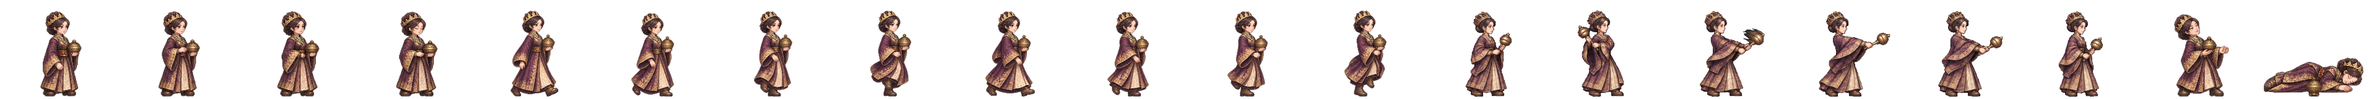
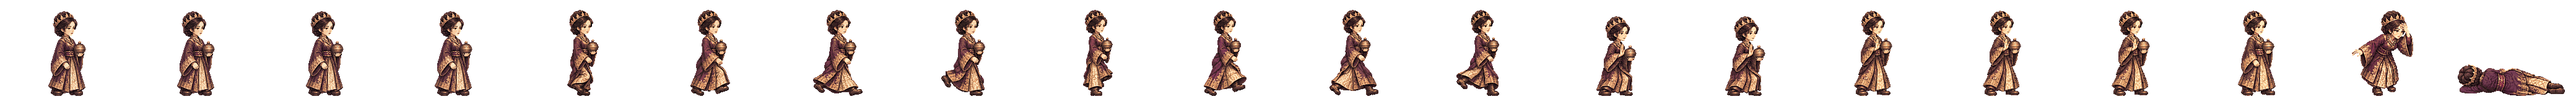
백제 왕비 새 띠: 청동 향로를 받쳐 들고 손바닥으로 기운을 미는 걷기·시전·개성·맞음·쓰러짐 (띠 검사 합격 · 옛 2배 띠 연결 뺌)
Claude-Session: https://claude.ai/code/session_01TRiuN7s6aDfSnaHxrkctmU

diff --git a/src/realm/data/spritePx.ts b/src/realm/data/spritePx.ts
@@ -1,3 +1,3 @@
 /** public/realm/anim-px/manifest.json 의 사본 — tools/sprite-normalize.mjs 가 만든다 (손으로 고치지 말 것). 칸 [가로, 세로] · feet = 발 줄(칸 위에서 y) · bodyPx = 서 있는 몸 키 */
 import { expandManifest } from './sprite-manifest.ts'
-export const SPRITE_PX: Readonly<Record<string, { readonly cell: readonly [number, number]; readonly feet: number; readonly bodyPx: number; readonly kind: 'general' | 'soldier' | 'folk' | 'crowd'; readonly cells: number }>> = expandManifest<{ readonly cell: readonly [number, number]; readonly feet: number; readonly bodyPx: number; readonly kind: 'general' | 'soldier' | 'folk' | 'crowd'; readonly cells: number }>([{"cell":[166,128],"feet":126,"bodyPx":124,"kind":"soldier","cells":20},{"cell":[116,128],"feet":126,"bodyPx":117,"kind":"soldier","cells":20},{"cell":[127,128],"feet":126,"bodyPx":116,"kind":"soldier","cells":20},{"cell":[269,128],"feet":126,"bodyPx":126,"kind":"soldier","cells":20},{"cell":[503,128],"feet":126,"bodyPx":127,"kind":"soldier","cells":20},{"cell":[614,128],"feet":126,"bodyPx":126,"kind":"soldier","cells":20},{"cell":[200,160],"feet":156,"bodyPx":138,"kind":"general","cells":20},{"cell":[208,160],"feet":155,"bodyPx":138,"kind":"general","cells":20},{"cell":[208,160],"feet":154,"bodyPx":138,"kind":"general","cells":20},{"cell":[304,160],"feet":155,"bodyPx":135,"kind":"general","cells":20},{"cell":[184,160],"feet":156,"bodyPx":138,"kind":"general","cells":20},{"cell":[208,160],"feet":154,"bodyPx":136,"kind":"general","cells":20},{"cell":[232,160],"feet":156,"bodyPx":138,"kind":"general","cells":20},{"cell":[208,160],"feet":156,"bodyPx":138,"kind":"general","cells":20},{"cell":[168,160],"feet":156,"bodyPx":124,"kind":"general","cells":20},{"cell":[216,160],"feet":156,"bodyPx":130,"kind":"general","cells":20},{"cell":[200,160],"feet":156,"bodyPx":116,"kind":"general","cells":20},{"cell":[192,160],"feet":156,"bodyPx":138,"kind":"general","cells":20},{"cell":[208,160],"feet":154,"bodyPx":135,"kind":"general","cells":20},{"cell":[280,160],"feet":156,"bodyPx":138,"kind":"general","cells":20},{"cell":[232,160],"feet":156,"bodyPx":134,"kind":"general","cells":20},{"cell":[144,160],"feet":156,"bodyPx":70,"kind":"general","cells":20},{"cell":[208,160],"feet":156,"bodyPx":70,"kind":"general","cells":20},{"cell":[192,160],"feet":156,"bodyPx":70,"kind":"general","cells":20},{"cell":[240,160],"feet":155,"bodyPx":138,"kind":"general","cells":20},{"cell":[192,160],"feet":156,"bodyPx":128,"kind":"general","cells":20},{"cell":[224,160],"feet":155,"bodyPx":138,"kind":"general","cells":20},{"cell":[208,160],"feet":154,"bodyPx":137,"kind":"general","cells":20},{"cell":[216,160],"feet":156,"bodyPx":138,"kind":"general","cells":20},{"cell":[208,160],"feet":156,"bodyPx":134,"kind":"general","cells":20},{"cell":[208,160],"feet":154,"bodyPx":130,"kind":"general","cells":20},{"cell":[248,160],"feet":156,"bodyPx":138,"kind":"general","cells":20},{"cell":[248,160],"feet":155,"bodyPx":138,"kind":"general","cells":20},{"cell":[192,160],"feet":155,"bodyPx":138,"kind":"general","cells":20},{"cell":[192,160],"feet":156,"bodyPx":124,"kind":"general","cells":20},{"cell":[208,160],"feet":154,"bodyPx":131,"kind":"general","cells":20},{"cell":[256,160],"feet":156,"bodyPx":138,"kind":"general","cells":20},{"cell":[240,160],"feet":156,"bodyPx":138,"kind":"general","cells":20},{"cell":[232,160],"feet":156,"bodyPx":139,"kind":"general","cells":20},{"cell":[232,160],"feet":156,"bodyPx":73,"kind":"general","cells":20},{"cell":[264,160],"feet":156,"bodyPx":138,"kind":"general","cells":20},{"cell":[224,160],"feet":156,"bodyPx":138,"kind":"general","cells":20},{"cell":[224,160],"feet":156,"bodyPx":128,"kind":"general","cells":20},{"cell":[176,160],"feet":156,"bodyPx":129,"kind":"general","cells":20},{"cell":[208,160],"feet":154,"bodyPx":139,"kind":"general","cells":20},{"cell":[232,160],"feet":155,"bodyPx":138,"kind":"general","cells":20},{"cell":[208,160],"feet":156,"bodyPx":132,"kind":"general","cells":20},{"cell":[184,160],"feet":156,"bodyPx":122,"kind":"general","cells":20},{"cell":[280,160],"feet":155,"bodyPx":133,"kind":"general","cells":20},{"cell":[176,160],"feet":156,"bodyPx":70,"kind":"general","cells":20},{"cell":[186,128],"feet":126,"bodyPx":127,"kind":"soldier","cells":20},{"cell":[298,128],"feet":126,"bodyPx":126,"kind":"soldier","cells":20},{"cell":[82,128],"feet":126,"bodyPx":114,"kind":"folk","cells":8},{"cell":[134,128],"feet":126,"bodyPx":119,"kind":"soldier","cells":20},{"cell":[380,128],"feet":126,"bodyPx":124,"kind":"soldier","cells":20},{"cell":[114,128],"feet":126,"bodyPx":115,"kind":"soldier","cells":20},{"cell":[122,128],"feet":126,"bodyPx":114,"kind":"soldier","cells":20},{"cell":[254,128],"feet":126,"bodyPx":128,"kind":"soldier","cells":20},{"cell":[438,128],"feet":126,"bodyPx":126,"kind":"soldier","cells":20},{"cell":[88,128],"feet":126,"bodyPx":113,"kind":"folk","cells":8},{"cell":[100,128],"feet":126,"bodyPx":115,"kind":"folk","cells":8},{"cell":[108,128],"feet":126,"bodyPx":115,"kind":"folk","cells":8},{"cell":[63,128],"feet":126,"bodyPx":113,"kind":"folk","cells":8},{"cell":[69,96],"feet":96,"bodyPx":96,"kind":"crowd","cells":1},{"cell":[54,96],"feet":96,"bodyPx":96,"kind":"crowd","cells":1},{"cell":[47,96],"feet":96,"bodyPx":96,"kind":"crowd","cells":1},{"cell":[49,96],"feet":96,"bodyPx":96,"kind":"crowd","cells":1},{"cell":[57,96],"feet":96,"bodyPx":96,"kind":"crowd","cells":1},{"cell":[55,96],"feet":96,"bodyPx":96,"kind":"crowd","cells":1},{"cell":[45,96],"feet":96,"bodyPx":96,"kind":"crowd","cells":1},{"cell":[53,96],"feet":96,"bodyPx":96,"kind":"crowd","cells":1},{"cell":[64,96],"feet":96,"bodyPx":96,"kind":"crowd","cells":1},{"cell":[184,160],"feet":156,"bodyPx":124,"kind":"general","cells":20},{"cell":[208,160],"feet":154,"bodyPx":134,"kind":"general","cells":20},{"cell":[224,160],"feet":156,"bodyPx":133,"kind":"general","cells":20},{"cell":[192,160],"feet":156,"bodyPx":135,"kind":"general","cells":20},{"cell":[184,160],"feet":156,"bodyPx":137,"kind":"general","cells":20},{"cell":[176,160],"feet":156,"bodyPx":130,"kind":"general","cells":20},{"cell":[216,160],"feet":156,"bodyPx":134,"kind":"general","cells":20},{"cell":[216,160],"feet":156,"bodyPx":132,"kind":"general","cells":20},{"cell":[288,160],"feet":156,"bodyPx":138,"kind":"general","cells":20},{"cell":[192,160],"feet":156,"bodyPx":118,"kind":"general","cells":20},{"cell":[208,160],"feet":154,"bodyPx":132,"kind":"general","cells":20},{"cell":[208,160],"feet":154,"bodyPx":128,"kind":"general","cells":20},{"cell":[240,160],"feet":156,"bodyPx":128,"kind":"general","cells":20},{"cell":[184,160],"feet":156,"bodyPx":132,"kind":"general","cells":20},{"cell":[208,160],"feet":156,"bodyPx":123,"kind":"general","cells":20},{"cell":[176,160],"feet":156,"bodyPx":116,"kind":"general","cells":20},{"cell":[272,160],"feet":156,"bodyPx":138,"kind":"general","cells":20},{"cell":[176,160],"feet":156,"bodyPx":138,"kind":"general","cells":20},{"cell":[176,160],"feet":156,"bodyPx":122,"kind":"general","cells":20},{"cell":[232,160],"feet":156,"bodyPx":127,"kind":"general","cells":20},{"cell":[184,160],"feet":156,"bodyPx":134,"kind":"general","cells":20},{"cell":[168,160],"feet":156,"bodyPx":138,"kind":"general","cells":20},{"cell":[176,160],"feet":156,"bodyPx":137,"kind":"general","cells":20},{"cell":[184,160],"feet":156,"bodyPx":133,"kind":"general","cells":20}],[["axe",0],["bandit-chief",1],["bandit-club",2],["boat",3],["bow",4],["crossbow",5],["gen-adogan",6],["gen-alpyeong",7],["gen-ara",8],["gen-areum",8],["gen-aryeong",9],["gen-bakdal",8],["gen-baram",8],["gen-bdanbi",10],["gen-beom",11],["gen-beombal",8],["gen-beomi",8],["gen-bira",12],["gen-biryu",13],["gen-budeul",8],["gen-byeol",8],["gen-daemusin",14],["gen-daeso",15],["gen-dallae2",10],["gen-dalli",8],["gen-damul",16],["gen-danbi",8],["gen-dangung",17],["gen-darae",18],["gen-dokmudeom",8],["gen-duman",19],["gen-eomni",8],["gen-eureum",20],["gen-g-bow",21],["gen-g-spear",22],["gen-g-sword",23],["gen-gaennae",8],["gen-gamsil",24],["gen-gaon",18],["gen-geota",13],["gen-geumbawi",10],["gen-geumha",25],["gen-goeun",8],["gen-gom",26],["gen-gomok",13],["gen-gureum",8],["gen-guryema",17],["gen-gwaeyu",12],["gen-haebi",8],["gen-haedal",6],["gen-haesol",8],["gen-halla",27],["gen-heo",8],["gen-hneoul",10],["gen-hogong",28],["gen-hojin",13],["gen-horselord",29],["gen-hwalmi",30],["gen-hyeokgeose",17],["gen-hyeopbo",6],["gen-irang",8],["gen-jibaekho",31],["gen-jinha",32],["gen-jita",33],["gen-jumong",34],["gen-keundol",7],["gen-maehwa",35],["gen-maenun",17],["gen-malgalgi",36],["gen-mari",37],["gen-maro",31],["gen-maryeo",13],["gen-mdallae",38],["gen-mir",6],["gen-mount",39],["gen-mulbeom",27],["gen-mulsae",27],["gen-musoe",28],["gen-noeul",8],["gen-nuri",40],["gen-ocheongan",41],["gen-odi",8],["gen-odogan",6],["gen-ogan",17],["gen-oi",42],["gen-olddaeso",20],["gen-onjo",43],["gen-pidogan",13],["gen-sagong",44],["gen-sdallae",6],["gen-sincheongan",8],["gen-singwigan",28],["gen-sinneoul",8],["gen-sobeol",45],["gen-soebi",6],["gen-soebo",46],["gen-soenun",44],["gen-sogeumbi",27],["gen-songbi",41],["gen-songyang",47],["gen-sori",8],["gen-soseono",48],["gen-suro",17],["gen-tahae",6],["gen-tneoul",8],["gen-w-bow",21],["gen-w-spear",49],["gen-waechief",13],["gen-wan",28],["gen-yeodogan",13],["gen-yucheongan",8],["gen-yusugan",31],["horse",50],["marine",51],["migrant",52],["militia",53],["pike",54],["pirate-captain",55],["pirate-sword",56],["shield",57],["spear",58],["villager-builder",59],["villager-farmer",60],["villager-porter",61],["villager-woman",62],["crowd-b1",63],["crowd-b2",64],["crowd-b3",65],["crowd-b4",66],["crowd-b5",67],["crowd-b6",68],["crowd-f1",63],["crowd-f2",68],["crowd-f3",69],["crowd-f4",70],["crowd-f5",63],["crowd-f6",71],["gen-dalbit",13],["gen-base-g-07-drunk-warrior",17],["gen-base-g-40-anya-adan",13],["gen-base-w-13-young-archer",8],["gen-base-g-03-sea-trader",37],["gen-base-w-10-pirate-captain",44],["gen-base-w-64-miri-dallae",44],["gen-base-g-41-goja-bau",37],["gen-base-g-42-dokro-garam",40],["gen-base-g-09-farmer-conscript",28],["gen-base-w-02-goguryeo-lady",8],["gen-base-w-17-mahan-pearl-diver",8],["gen-base-g-17-saro-isageum",46],["gen-base-g-18-daegaya-king",72],["gen-base-g-35-dabeol-dalgu",13],["gen-base-g-19-sabeol-veteran",28],["gen-base-w-23-usisan-whale-queen",8],["gen-base-g-36-gammun-gamdol",41],["gen-base-g-20-samul-sea-lord",36],["gen-base-g-37-eumjeup-jeup",10],["gen-base-g-38-chopal-palmae",17],["gen-base-w-75-daegaya-soemoe",17],["gen-base-g-45-dabeol-deulgae",10],["gen-base-g-04-jinhan-giant",13],["gen-base-g-08-veteran",13],["gen-base-w-18-jinhan-salt-widow",8],["gen-base-w-12-court-dancer",73],["gen-base-w-83-gyeonji-beodeul",74],["gen-base-w-05-baekje-queen",75],["gen-base-w-21-baekje-court-dancer",10],["gen-base-g-01-master-smith",76],["gen-base-g-93-jomun-solgae",77],["gen-base-g-57-bihwa-neup",37],["gen-base-w-72-eumjeup-beol",8],["gen-base-w-102-garak-dana",44],["gen-base-g-68-baekje-onnuri",13],["gen-base-w-27-mokji-jinha",6],["gen-base-g-22-ungcheon-gomnae",6],["gen-base-g-23-sangdang-soedal",13],["gen-base-g-24-wansan-onsan",6],["gen-base-g-25-balla-keunmoe",28],["gen-base-g-61-heomcheuk-bawi",28],["gen-base-g-88-wander-soeul",41],["gen-base-w-14-feast-spy",8],["gen-base-g-12-silla-youth",78],["gen-base-w-08-mahan-warrior",8],["gen-base-g-62-beonye-hanul",37],["gen-base-g-63-heomcheuk-beogeum",13],["gen-base-g-84-wander-seoneul",13],["gen-base-w-50-siljik-mulga",28],["gen-base-g-46-uga-nureongso",28],["gen-base-w-80-usan-gangchi",44],["gen-base-g-47-guga-sanyanggae",28],["gen-base-w-76-gampyeong-baetsagong",8],["gen-base-g-05-mahan-chieftain",79],["gen-base-g-58-usan-uhae",13],["gen-base-g-27-maek-maekdol",13],["gen-base-w-53-hwanna-gabi",44],["gen-base-w-29-golpo-janmul",31],["gen-base-g-53-baekje-haeru",6],["gen-base-w-71-yeonna-neoul",8],["gen-base-w-79-yangmaek-solmae",8],["gen-base-w-34-chopal-deulme",8],["gen-base-g-44-maga-malgup",80],["gen-base-w-31-dabeol-dalbit",44],["gen-base-g-51-biryuna-mulgyeol",41],["gen-base-g-48-gwanna-musoe",13],["gen-base-g-32-uga-sodu",12],["gen-base-g-49-goguryeo-sona",81],["gen-base-g-30-gwanna-soemoe",41],["gen-base-g-52-tamna-oreum",10],["gen-base-g-29-yeonna-myeongsol",34],["gen-base-w-56-dongokjeo-sogeum",73],["gen-base-g-54-mokji-mahan",12],["gen-base-g-33-jeoga-metdol",17],["gen-base-w-36-baekje-maena",8],["gen-base-w-38-sangdang-bulmae",6],["gen-base-w-39-gosaburi-galmae",8],["gen-base-w-40-mujin-munui",82],["gen-base-w-41-hwanna-beodeul",83],["gen-base-w-43-uga-nuri",36],["gen-base-w-45-tamna-oreumbi",10],["gen-base-g-60-golbeol-golgae",10],["gen-base-g-61-apdok-ap",28],["gen-base-g-62-gammun-gamnamu",6],["gen-base-g-63-chopal-yeoul",31],["gen-base-g-64-michuhol-sogeumkkun",37],["gen-base-g-65-sangdang-soemangchi",41],["gen-base-g-66-geonma-malbalgup",84],["gen-base-g-67-gosaburi-buri",85],["gen-base-g-68-mujin-bitgoeul",10],["gen-base-g-69-goryong-yong",41],["gen-base-g-70-siljik-pado",37],["gen-base-w-81-byeokjin-byeolbit",8],["gen-base-w-46-geonma-maru",8],["gen-base-w-48-mujin-mudeung",8],["gen-base-g-26-gampyeong-gaetbeol",12],["gen-base-g-60-eupcha-hangyeol",86],["gen-base-g-15-shaman-man",28],["gen-base-g-85-wander-ure",31],["gen-base-g-43-hwanna-amnok",13],["gen-base-g-50-bullae-gwaha",75],["gen-base-g-55-saro-bakdal",13],["gen-base-g-56-haseulla-gwahama",6],["gen-base-w-06-buyeo-huntress",27],["gen-base-w-22-dongye-tiger-huntress",8],["gen-base-w-25-bihwa-priestess",8],["gen-base-w-24-apdok-queen",8],["gen-base-w-61-iseo-sinae",8],["gen-base-w-26-iseo-tomboy-general",8],["gen-base-g-59-yangmaek-maekson",87],["gen-aw1-haebi",41],["gen-aw1-soseono",88],["gen-aw1-gamsil",10],["gen-aw1-mir",89],["gen-aw1-dangung",6],["gen-aw1-ara",41],["gen-aw1-jumong",90],["gen-aw1-onjo",91],["gen-aw1-base-w-83-gyeonji-beodeul",17],["gen-aw1-heo",40],["gen-aw1-base-g-38-chopal-palmae",6],["gen-aw1-base-w-25-bihwa-priestess",92],["gen-aw1-sori",93],["gen-aw1-gomok",6],["gen-aw1-irang",17],["gen-aw1-budeul",93],["gen-aw1-gom",37],["gen-aw1-sdallae",6],["gen-aw1-base-w-13-young-archer",6],["gen-aw1-base-w-36-baekje-maena",94],["gen-aw1-base-g-09-farmer-conscript",40],["gen-aw1-base-w-02-goguryeo-lady",95],["gen-aw1-haedal",10],["gen-aw1-hogong",6],["gen-aw1-maehwa",89],["gen-aw1-base-w-06-buyeo-huntress",12],["gen-aw1-base-w-08-mahan-warrior",41],["gen-aw1-base-w-29-golpo-janmul",41],["gen-aw1-base-w-31-dabeol-dalbit",17],["gen-aw1-base-w-38-sangdang-bulmae",93],["gen-aw1-bira",28],["gen-aw1-base-w-53-hwanna-gabi",93],["gen-aw1-base-w-56-dongokjeo-sogeum",89],["gen-aw1-base-w-72-eumjeup-beol",17],["gen-aw1-bdanbi",93],["gen-aw1-beom",10],["gen-aw1-beombal",10],["gen-aw1-byeol",17],["gen-aw1-dalli",89],["gen-aw1-malgalgi",31],["gen-aw1-sincheongan",28]])
+export const SPRITE_PX: Readonly<Record<string, { readonly cell: readonly [number, number]; readonly feet: number; readonly bodyPx: number; readonly kind: 'general' | 'soldier' | 'folk' | 'crowd'; readonly cells: number }>> = expandManifest<{ readonly cell: readonly [number, number]; readonly feet: number; readonly bodyPx: number; readonly kind: 'general' | 'soldier' | 'folk' | 'crowd'; readonly cells: number }>([{"cell":[166,128],"feet":126,"bodyPx":124,"kind":"soldier","cells":20},{"cell":[116,128],"feet":126,"bodyPx":117,"kind":"soldier","cells":20},{"cell":[127,128],"feet":126,"bodyPx":116,"kind":"soldier","cells":20},{"cell":[269,128],"feet":126,"bodyPx":126,"kind":"soldier","cells":20},{"cell":[503,128],"feet":126,"bodyPx":127,"kind":"soldier","cells":20},{"cell":[614,128],"feet":126,"bodyPx":126,"kind":"soldier","cells":20},{"cell":[200,160],"feet":156,"bodyPx":138,"kind":"general","cells":20},{"cell":[208,160],"feet":155,"bodyPx":138,"kind":"general","cells":20},{"cell":[208,160],"feet":154,"bodyPx":138,"kind":"general","cells":20},{"cell":[304,160],"feet":155,"bodyPx":135,"kind":"general","cells":20},{"cell":[184,160],"feet":156,"bodyPx":138,"kind":"general","cells":20},{"cell":[208,160],"feet":154,"bodyPx":136,"kind":"general","cells":20},{"cell":[232,160],"feet":156,"bodyPx":138,"kind":"general","cells":20},{"cell":[208,160],"feet":156,"bodyPx":138,"kind":"general","cells":20},{"cell":[168,160],"feet":156,"bodyPx":124,"kind":"general","cells":20},{"cell":[216,160],"feet":156,"bodyPx":130,"kind":"general","cells":20},{"cell":[200,160],"feet":156,"bodyPx":116,"kind":"general","cells":20},{"cell":[192,160],"feet":156,"bodyPx":138,"kind":"general","cells":20},{"cell":[208,160],"feet":154,"bodyPx":135,"kind":"general","cells":20},{"cell":[280,160],"feet":156,"bodyPx":138,"kind":"general","cells":20},{"cell":[232,160],"feet":156,"bodyPx":134,"kind":"general","cells":20},{"cell":[144,160],"feet":156,"bodyPx":70,"kind":"general","cells":20},{"cell":[208,160],"feet":156,"bodyPx":70,"kind":"general","cells":20},{"cell":[192,160],"feet":156,"bodyPx":70,"kind":"general","cells":20},{"cell":[240,160],"feet":155,"bodyPx":138,"kind":"general","cells":20},{"cell":[192,160],"feet":156,"bodyPx":128,"kind":"general","cells":20},{"cell":[224,160],"feet":155,"bodyPx":138,"kind":"general","cells":20},{"cell":[208,160],"feet":154,"bodyPx":137,"kind":"general","cells":20},{"cell":[216,160],"feet":156,"bodyPx":138,"kind":"general","cells":20},{"cell":[208,160],"feet":156,"bodyPx":134,"kind":"general","cells":20},{"cell":[208,160],"feet":154,"bodyPx":130,"kind":"general","cells":20},{"cell":[248,160],"feet":156,"bodyPx":138,"kind":"general","cells":20},{"cell":[248,160],"feet":155,"bodyPx":138,"kind":"general","cells":20},{"cell":[192,160],"feet":155,"bodyPx":138,"kind":"general","cells":20},{"cell":[192,160],"feet":156,"bodyPx":124,"kind":"general","cells":20},{"cell":[208,160],"feet":154,"bodyPx":131,"kind":"general","cells":20},{"cell":[256,160],"feet":156,"bodyPx":138,"kind":"general","cells":20},{"cell":[240,160],"feet":156,"bodyPx":138,"kind":"general","cells":20},{"cell":[232,160],"feet":156,"bodyPx":139,"kind":"general","cells":20},{"cell":[232,160],"feet":156,"bodyPx":73,"kind":"general","cells":20},{"cell":[264,160],"feet":156,"bodyPx":138,"kind":"general","cells":20},{"cell":[224,160],"feet":156,"bodyPx":138,"kind":"general","cells":20},{"cell":[224,160],"feet":156,"bodyPx":128,"kind":"general","cells":20},{"cell":[176,160],"feet":156,"bodyPx":129,"kind":"general","cells":20},{"cell":[208,160],"feet":154,"bodyPx":139,"kind":"general","cells":20},{"cell":[232,160],"feet":155,"bodyPx":138,"kind":"general","cells":20},{"cell":[208,160],"feet":156,"bodyPx":132,"kind":"general","cells":20},{"cell":[184,160],"feet":156,"bodyPx":122,"kind":"general","cells":20},{"cell":[280,160],"feet":155,"bodyPx":133,"kind":"general","cells":20},{"cell":[176,160],"feet":156,"bodyPx":70,"kind":"general","cells":20},{"cell":[186,128],"feet":126,"bodyPx":127,"kind":"soldier","cells":20},{"cell":[298,128],"feet":126,"bodyPx":126,"kind":"soldier","cells":20},{"cell":[82,128],"feet":126,"bodyPx":114,"kind":"folk","cells":8},{"cell":[134,128],"feet":126,"bodyPx":119,"kind":"soldier","cells":20},{"cell":[380,128],"feet":126,"bodyPx":124,"kind":"soldier","cells":20},{"cell":[114,128],"feet":126,"bodyPx":115,"kind":"soldier","cells":20},{"cell":[122,128],"feet":126,"bodyPx":114,"kind":"soldier","cells":20},{"cell":[254,128],"feet":126,"bodyPx":128,"kind":"soldier","cells":20},{"cell":[438,128],"feet":126,"bodyPx":126,"kind":"soldier","cells":20},{"cell":[88,128],"feet":126,"bodyPx":113,"kind":"folk","cells":8},{"cell":[100,128],"feet":126,"bodyPx":115,"kind":"folk","cells":8},{"cell":[108,128],"feet":126,"bodyPx":115,"kind":"folk","cells":8},{"cell":[63,128],"feet":126,"bodyPx":113,"kind":"folk","cells":8},{"cell":[69,96],"feet":96,"bodyPx":96,"kind":"crowd","cells":1},{"cell":[54,96],"feet":96,"bodyPx":96,"kind":"crowd","cells":1},{"cell":[47,96],"feet":96,"bodyPx":96,"kind":"crowd","cells":1},{"cell":[49,96],"feet":96,"bodyPx":96,"kind":"crowd","cells":1},{"cell":[57,96],"feet":96,"bodyPx":96,"kind":"crowd","cells":1},{"cell":[55,96],"feet":96,"bodyPx":96,"kind":"crowd","cells":1},{"cell":[45,96],"feet":96,"bodyPx":96,"kind":"crowd","cells":1},{"cell":[53,96],"feet":96,"bodyPx":96,"kind":"crowd","cells":1},{"cell":[64,96],"feet":96,"bodyPx":96,"kind":"crowd","cells":1},{"cell":[184,160],"feet":156,"bodyPx":124,"kind":"general","cells":20},{"cell":[208,160],"feet":154,"bodyPx":134,"kind":"general","cells":20},{"cell":[224,160],"feet":156,"bodyPx":133,"kind":"general","cells":20},{"cell":[184,160],"feet":156,"bodyPx":137,"kind":"general","cells":20},{"cell":[176,160],"feet":156,"bodyPx":130,"kind":"general","cells":20},{"cell":[216,160],"feet":156,"bodyPx":134,"kind":"general","cells":20},{"cell":[216,160],"feet":156,"bodyPx":132,"kind":"general","cells":20},{"cell":[288,160],"feet":156,"bodyPx":138,"kind":"general","cells":20},{"cell":[192,160],"feet":156,"bodyPx":118,"kind":"general","cells":20},{"cell":[208,160],"feet":154,"bodyPx":132,"kind":"general","cells":20},{"cell":[208,160],"feet":154,"bodyPx":128,"kind":"general","cells":20},{"cell":[240,160],"feet":156,"bodyPx":128,"kind":"general","cells":20},{"cell":[184,160],"feet":156,"bodyPx":132,"kind":"general","cells":20},{"cell":[208,160],"feet":156,"bodyPx":123,"kind":"general","cells":20},{"cell":[192,160],"feet":156,"bodyPx":135,"kind":"general","cells":20},{"cell":[176,160],"feet":156,"bodyPx":116,"kind":"general","cells":20},{"cell":[272,160],"feet":156,"bodyPx":138,"kind":"general","cells":20},{"cell":[176,160],"feet":156,"bodyPx":138,"kind":"general","cells":20},{"cell":[176,160],"feet":156,"bodyPx":122,"kind":"general","cells":20},{"cell":[232,160],"feet":156,"bodyPx":127,"kind":"general","cells":20},{"cell":[184,160],"feet":156,"bodyPx":134,"kind":"general","cells":20},{"cell":[168,160],"feet":156,"bodyPx":138,"kind":"general","cells":20},{"cell":[176,160],"feet":156,"bodyPx":137,"kind":"general","cells":20},{"cell":[184,160],"feet":156,"bodyPx":133,"kind":"general","cells":20}],[["axe",0],["bandit-chief",1],["bandit-club",2],["boat",3],["bow",4],["crossbow",5],["gen-adogan",6],["gen-alpyeong",7],["gen-ara",8],["gen-areum",8],["gen-aryeong",9],["gen-bakdal",8],["gen-baram",8],["gen-bdanbi",10],["gen-beom",11],["gen-beombal",8],["gen-beomi",8],["gen-bira",12],["gen-biryu",13],["gen-budeul",8],["gen-byeol",8],["gen-daemusin",14],["gen-daeso",15],["gen-dallae2",10],["gen-dalli",8],["gen-damul",16],["gen-danbi",8],["gen-dangung",17],["gen-darae",18],["gen-dokmudeom",8],["gen-duman",19],["gen-eomni",8],["gen-eureum",20],["gen-g-bow",21],["gen-g-spear",22],["gen-g-sword",23],["gen-gaennae",8],["gen-gamsil",24],["gen-gaon",18],["gen-geota",13],["gen-geumbawi",10],["gen-geumha",25],["gen-goeun",8],["gen-gom",26],["gen-gomok",13],["gen-gureum",8],["gen-guryema",17],["gen-gwaeyu",12],["gen-haebi",8],["gen-haedal",6],["gen-haesol",8],["gen-halla",27],["gen-heo",8],["gen-hneoul",10],["gen-hogong",28],["gen-hojin",13],["gen-horselord",29],["gen-hwalmi",30],["gen-hyeokgeose",17],["gen-hyeopbo",6],["gen-irang",8],["gen-jibaekho",31],["gen-jinha",32],["gen-jita",33],["gen-jumong",34],["gen-keundol",7],["gen-maehwa",35],["gen-maenun",17],["gen-malgalgi",36],["gen-mari",37],["gen-maro",31],["gen-maryeo",13],["gen-mdallae",38],["gen-mir",6],["gen-mount",39],["gen-mulbeom",27],["gen-mulsae",27],["gen-musoe",28],["gen-noeul",8],["gen-nuri",40],["gen-ocheongan",41],["gen-odi",8],["gen-odogan",6],["gen-ogan",17],["gen-oi",42],["gen-olddaeso",20],["gen-onjo",43],["gen-pidogan",13],["gen-sagong",44],["gen-sdallae",6],["gen-sincheongan",8],["gen-singwigan",28],["gen-sinneoul",8],["gen-sobeol",45],["gen-soebi",6],["gen-soebo",46],["gen-soenun",44],["gen-sogeumbi",27],["gen-songbi",41],["gen-songyang",47],["gen-sori",8],["gen-soseono",48],["gen-suro",17],["gen-tahae",6],["gen-tneoul",8],["gen-w-bow",21],["gen-w-spear",49],["gen-waechief",13],["gen-wan",28],["gen-yeodogan",13],["gen-yucheongan",8],["gen-yusugan",31],["horse",50],["marine",51],["migrant",52],["militia",53],["pike",54],["pirate-captain",55],["pirate-sword",56],["shield",57],["spear",58],["villager-builder",59],["villager-farmer",60],["villager-porter",61],["villager-woman",62],["crowd-b1",63],["crowd-b2",64],["crowd-b3",65],["crowd-b4",66],["crowd-b5",67],["crowd-b6",68],["crowd-f1",63],["crowd-f2",68],["crowd-f3",69],["crowd-f4",70],["crowd-f5",63],["crowd-f6",71],["gen-dalbit",13],["gen-base-g-07-drunk-warrior",17],["gen-base-g-40-anya-adan",13],["gen-base-w-13-young-archer",8],["gen-base-g-03-sea-trader",37],["gen-base-w-10-pirate-captain",44],["gen-base-w-64-miri-dallae",44],["gen-base-g-41-goja-bau",37],["gen-base-g-42-dokro-garam",40],["gen-base-g-09-farmer-conscript",28],["gen-base-w-02-goguryeo-lady",8],["gen-base-w-17-mahan-pearl-diver",8],["gen-base-g-17-saro-isageum",46],["gen-base-g-18-daegaya-king",72],["gen-base-g-35-dabeol-dalgu",13],["gen-base-g-19-sabeol-veteran",28],["gen-base-w-23-usisan-whale-queen",8],["gen-base-g-36-gammun-gamdol",41],["gen-base-g-20-samul-sea-lord",36],["gen-base-g-37-eumjeup-jeup",10],["gen-base-g-38-chopal-palmae",17],["gen-base-w-75-daegaya-soemoe",17],["gen-base-g-45-dabeol-deulgae",10],["gen-base-g-04-jinhan-giant",13],["gen-base-g-08-veteran",13],["gen-base-w-18-jinhan-salt-widow",8],["gen-base-w-12-court-dancer",73],["gen-base-w-83-gyeonji-beodeul",74],["gen-base-w-05-baekje-queen",18],["gen-base-w-21-baekje-court-dancer",10],["gen-base-g-01-master-smith",75],["gen-base-g-93-jomun-solgae",76],["gen-base-g-57-bihwa-neup",37],["gen-base-w-72-eumjeup-beol",8],["gen-base-w-102-garak-dana",44],["gen-base-g-68-baekje-onnuri",13],["gen-base-w-27-mokji-jinha",6],["gen-base-g-22-ungcheon-gomnae",6],["gen-base-g-23-sangdang-soedal",13],["gen-base-g-24-wansan-onsan",6],["gen-base-g-25-balla-keunmoe",28],["gen-base-g-61-heomcheuk-bawi",28],["gen-base-g-88-wander-soeul",41],["gen-base-w-14-feast-spy",8],["gen-base-g-12-silla-youth",77],["gen-base-w-08-mahan-warrior",8],["gen-base-g-62-beonye-hanul",37],["gen-base-g-63-heomcheuk-beogeum",13],["gen-base-g-84-wander-seoneul",13],["gen-base-w-50-siljik-mulga",28],["gen-base-g-46-uga-nureongso",28],["gen-base-w-80-usan-gangchi",44],["gen-base-g-47-guga-sanyanggae",28],["gen-base-w-76-gampyeong-baetsagong",8],["gen-base-g-05-mahan-chieftain",78],["gen-base-g-58-usan-uhae",13],["gen-base-g-27-maek-maekdol",13],["gen-base-w-53-hwanna-gabi",44],["gen-base-w-29-golpo-janmul",31],["gen-base-g-53-baekje-haeru",6],["gen-base-w-71-yeonna-neoul",8],["gen-base-w-79-yangmaek-solmae",8],["gen-base-w-34-chopal-deulme",8],["gen-base-g-44-maga-malgup",79],["gen-base-w-31-dabeol-dalbit",44],["gen-base-g-51-biryuna-mulgyeol",41],["gen-base-g-48-gwanna-musoe",13],["gen-base-g-32-uga-sodu",12],["gen-base-g-49-goguryeo-sona",80],["gen-base-g-30-gwanna-soemoe",41],["gen-base-g-52-tamna-oreum",10],["gen-base-g-29-yeonna-myeongsol",34],["gen-base-w-56-dongokjeo-sogeum",73],["gen-base-g-54-mokji-mahan",12],["gen-base-g-33-jeoga-metdol",17],["gen-base-w-36-baekje-maena",8],["gen-base-w-38-sangdang-bulmae",6],["gen-base-w-39-gosaburi-galmae",8],["gen-base-w-40-mujin-munui",81],["gen-base-w-41-hwanna-beodeul",82],["gen-base-w-43-uga-nuri",36],["gen-base-w-45-tamna-oreumbi",10],["gen-base-g-60-golbeol-golgae",10],["gen-base-g-61-apdok-ap",28],["gen-base-g-62-gammun-gamnamu",6],["gen-base-g-63-chopal-yeoul",31],["gen-base-g-64-michuhol-sogeumkkun",37],["gen-base-g-65-sangdang-soemangchi",41],["gen-base-g-66-geonma-malbalgup",83],["gen-base-g-67-gosaburi-buri",84],["gen-base-g-68-mujin-bitgoeul",10],["gen-base-g-69-goryong-yong",41],["gen-base-g-70-siljik-pado",37],["gen-base-w-81-byeokjin-byeolbit",8],["gen-base-w-46-geonma-maru",8],["gen-base-w-48-mujin-mudeung",8],["gen-base-g-26-gampyeong-gaetbeol",12],["gen-base-g-60-eupcha-hangyeol",85],["gen-base-g-15-shaman-man",28],["gen-base-g-85-wander-ure",31],["gen-base-g-43-hwanna-amnok",13],["gen-base-g-50-bullae-gwaha",86],["gen-base-g-55-saro-bakdal",13],["gen-base-g-56-haseulla-gwahama",6],["gen-base-w-06-buyeo-huntress",27],["gen-base-w-22-dongye-tiger-huntress",8],["gen-base-w-25-bihwa-priestess",8],["gen-base-w-24-apdok-queen",8],["gen-base-w-61-iseo-sinae",8],["gen-base-w-26-iseo-tomboy-general",8],["gen-base-g-59-yangmaek-maekson",87],["gen-aw1-haebi",41],["gen-aw1-soseono",88],["gen-aw1-gamsil",10],["gen-aw1-mir",89],["gen-aw1-dangung",6],["gen-aw1-ara",41],["gen-aw1-jumong",90],["gen-aw1-onjo",91],["gen-aw1-base-w-83-gyeonji-beodeul",17],["gen-aw1-heo",40],["gen-aw1-base-g-38-chopal-palmae",6],["gen-aw1-base-w-25-bihwa-priestess",92],["gen-aw1-sori",93],["gen-aw1-gomok",6],["gen-aw1-irang",17],["gen-aw1-budeul",93],["gen-aw1-gom",37],["gen-aw1-sdallae",6],["gen-aw1-base-w-13-young-archer",6],["gen-aw1-base-w-36-baekje-maena",94],["gen-aw1-base-g-09-farmer-conscript",40],["gen-aw1-base-w-02-goguryeo-lady",95],["gen-aw1-haedal",10],["gen-aw1-hogong",6],["gen-aw1-maehwa",89],["gen-aw1-base-w-06-buyeo-huntress",12],["gen-aw1-base-w-08-mahan-warrior",41],["gen-aw1-base-w-29-golpo-janmul",41],["gen-aw1-base-w-31-dabeol-dalbit",17],["gen-aw1-base-w-38-sangdang-bulmae",93],["gen-aw1-bira",28],["gen-aw1-base-w-53-hwanna-gabi",93],["gen-aw1-base-w-56-dongokjeo-sogeum",89],["gen-aw1-base-w-72-eumjeup-beol",17],["gen-aw1-bdanbi",93],["gen-aw1-beom",10],["gen-aw1-beombal",10],["gen-aw1-byeol",17],["gen-aw1-dalli",89],["gen-aw1-malgalgi",31],["gen-aw1-sincheongan",28]])

diff --git a/src/duel/view.ts b/src/duel/view.ts
@@ -100,7 +100,7 @@ const crowdFront = [1, 2, 3, 4, 5, 6].map((i) => img(`realm/duel/crowd/b${i}.png
 const crowdReady = (set: HTMLImageElement[]): boolean => set.every((im) => im.complete && im.naturalWidth > 0)
 const pxMode = cfg.px !== false && params.get('px') !== '0'
 /** 겨루기 전용 옛 띠(duel/sprites) 대신 열전과 같은 도트 띠(anim-px)를 쓰는 장수 — 두 판에서 같은 모습 · 서기 계획·쓰러지는 칸도 같다 (11-23 범 · 매화 · 달빛 · 11-24 해비 · 아룸) */
-const PX_DUEL: ReadonlySet<string> = new Set(['beom', 'maehwa', 'base-w-31-dabeol-dalbit', 'haebi', 'areum', 'base-w-13-young-archer', 'base-w-10-pirate-captain', 'base-w-17-mahan-pearl-diver', 'base-w-06-buyeo-huntress', 'base-w-64-miri-dallae', 'ara', 'base-w-22-dongye-tiger-huntress', 'noeul', 'sagong', 'sinneoul', 'heo', 'base-w-08-mahan-warrior', 'base-w-23-usisan-whale-queen', 'base-w-26-iseo-tomboy-general', 'base-w-72-eumjeup-beol', 'tneoul', 'odi', 'base-w-76-gampyeong-baetsagong', 'base-w-34-chopal-deulme', 'base-w-102-garak-dana', 'base-w-36-baekje-maena', 'base-w-56-dongokjeo-sogeum', 'budeul', 'base-w-53-hwanna-gabi', 'base-w-18-jinhan-salt-widow', 'beombal', 'irang', 'sogeumbi', 'baram', 'byeol', 'base-w-71-yeonna-neoul', 'base-w-39-gosaburi-galmae', 'base-w-41-hwanna-beodeul', 'base-w-79-yangmaek-solmae', 'base-w-46-geonma-maru', 'base-w-48-mujin-mudeung', 'base-w-80-usan-gangchi', 'base-w-81-byeokjin-byeolbit', 'beomi', 'danbi', 'dalli', 'gureum', 'haesol', 'soenun', 'eomni', 'mulbeom', 'mulsae', 'bakdal', 'darae', 'sori', 'base-w-12-court-dancer', 'hwalmi', 'gaennae', 'dokmudeom', 'base-w-14-feast-spy', 'base-w-25-bihwa-priestess', 'sincheongan', 'base-w-40-mujin-munui', 'halla', 'yucheongan', 'base-w-02-goguryeo-lady', 'gaon', 'base-w-24-apdok-queen', 'base-w-61-iseo-sinae', 'goeun'])
+const PX_DUEL: ReadonlySet<string> = new Set(['beom', 'maehwa', 'base-w-31-dabeol-dalbit', 'haebi', 'areum', 'base-w-13-young-archer', 'base-w-10-pirate-captain', 'base-w-17-mahan-pearl-diver', 'base-w-06-buyeo-huntress', 'base-w-64-miri-dallae', 'ara', 'base-w-22-dongye-tiger-huntress', 'noeul', 'sagong', 'sinneoul', 'heo', 'base-w-08-mahan-warrior', 'base-w-23-usisan-whale-queen', 'base-w-26-iseo-tomboy-general', 'base-w-72-eumjeup-beol', 'tneoul', 'odi', 'base-w-76-gampyeong-baetsagong', 'base-w-34-chopal-deulme', 'base-w-102-garak-dana', 'base-w-36-baekje-maena', 'base-w-56-dongokjeo-sogeum', 'budeul', 'base-w-53-hwanna-gabi', 'base-w-18-jinhan-salt-widow', 'beombal', 'irang', 'sogeumbi', 'baram', 'byeol', 'base-w-71-yeonna-neoul', 'base-w-39-gosaburi-galmae', 'base-w-41-hwanna-beodeul', 'base-w-79-yangmaek-solmae', 'base-w-46-geonma-maru', 'base-w-48-mujin-mudeung', 'base-w-80-usan-gangchi', 'base-w-81-byeokjin-byeolbit', 'beomi', 'danbi', 'dalli', 'gureum', 'haesol', 'soenun', 'eomni', 'mulbeom', 'mulsae', 'bakdal', 'darae', 'sori', 'base-w-12-court-dancer', 'hwalmi', 'gaennae', 'dokmudeom', 'base-w-14-feast-spy', 'base-w-25-bihwa-priestess', 'sincheongan', 'base-w-40-mujin-munui', 'halla', 'yucheongan', 'base-w-02-goguryeo-lady', 'gaon', 'base-w-24-apdok-queen', 'base-w-61-iseo-sinae', 'goeun', 'base-w-05-baekje-queen'])
 /** 띠 그림 — 기본은 anim-px(도트 규격) 먼저, 없으면 옛 띠로 (img 의 onerror 가 갈아 끼운다) */
 const strip = (s: string): HTMLImageElement => pxMode
   ? DUEL_ATLASES[s] !== undefined && !PX_DUEL.has(s) ? img(`realm/duel/sprites/gen-${s}.png`, `realm/anim-px/gen-${s}.png`)

diff --git a/src/tune/params.ts b/src/tune/params.ts
@@ -1530,6 +1530,7 @@ export const HAEBI_IDLE = {
     'base-w-24-apdok-queen': { cells: 38, base: [0, 1], hold: 2.4, fall: [18, 20, 21, 19], quirk: [22, 23, 24, 25], quirkTimes: [.3, .32, .4, .28], attack: { cells: [26, 27, 28, 29, 30, 31, 32, 33], times: [.09, .08, .30, .05, .15, .07, .08, .12], hit: 4 }, hurt: [34, 35], rise: [36, 37], xGeom: { h: 224, root: 92, foot: 216 } },
     'base-w-61-iseo-sinae': { cells: 38, base: [0, 1], hold: 2.4, fall: [18, 20, 21, 19], quirk: [22, 23, 24, 25], quirkTimes: [.3, .32, .4, .28], attack: { cells: [26, 27, 28, 29, 30, 31, 32, 33], times: [.09, .08, .30, .05, .15, .07, .08, .12], hit: 4 }, hurt: [34, 35], rise: [36, 37], xGeom: { h: 224, root: 92, foot: 216 } },
     goeun: { cells: 38, base: [0, 1], hold: 2.4, fall: [18, 20, 21, 19], quirk: [22, 23, 24, 25], quirkTimes: [.3, .32, .4, .28], attack: { cells: [26, 27, 28, 29, 30, 31, 32, 33], times: [.09, .08, .30, .05, .15, .07, .08, .12], hit: 4 }, hurt: [34, 35], rise: [36, 37], xGeom: { h: 224, root: 92, foot: 216 } },
+    'base-w-05-baekje-queen': { cells: 38, base: [0, 1], hold: 2.4, fall: [18, 20, 21, 19], quirk: [22, 23, 24, 25], quirkTimes: [.3, .32, .4, .28], attack: { cells: [26, 27, 28, 29, 30, 31, 32, 33], times: [.09, .08, .30, .05, .15, .07, .08, .12], hit: 4 }, hurt: [34, 35], rise: [36, 37], xGeom: { h: 224, root: 92, foot: 216 } },
   },
 } as const
 export const HAEBI_ANIM = {

diff --git a/src/raid/hero-hd.ts b/src/raid/hero-hd.ts
@@ -26,7 +26,6 @@ export const HERO_HD: Readonly<Record<string, string>> = {
   'anim-px/gen-base-w-21-baekje-court-dancer.png': 'anim-px/gen-base-w-21-baekje-court-dancer_hd.png',
   'anim-px/gen-aw1-base-w-13-young-archer.png': 'anim-px/gen-aw1-base-w-13-young-archer_hd.png',
   'anim-px/gen-aw1-base-w-08-mahan-warrior.png': 'anim-px/gen-aw1-base-w-08-mahan-warrior_hd.png',
-  'anim-px/gen-base-w-05-baekje-queen.png': 'anim-px/gen-base-w-05-baekje-queen_hd.png',
   'anim-px/gen-aw1-base-w-06-buyeo-huntress.png': 'anim-px/gen-aw1-base-w-06-buyeo-huntress_hd.png',
   'anim-px/gen-aw1-base-w-02-goguryeo-lady.png': 'anim-px/gen-aw1-base-w-02-goguryeo-lady_hd.png',
   'anim-px/gen-maenun.png': 'anim-px/gen-maenun_hd.png',
